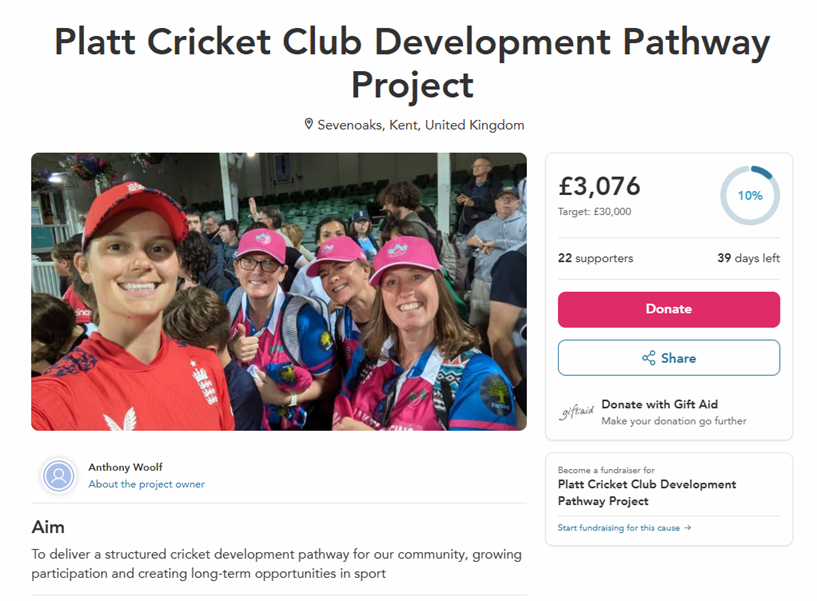
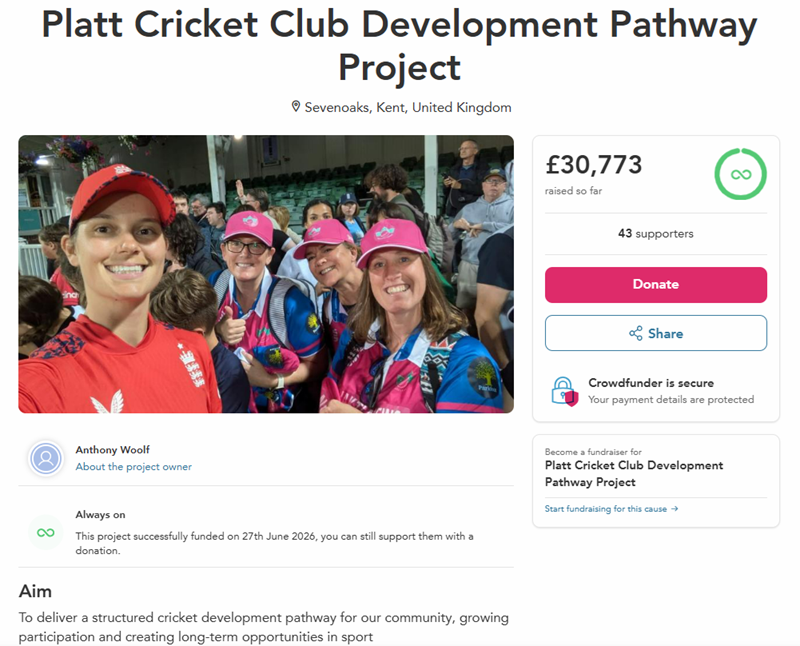
Updating sponsorship page

diff --git a/app/ladies/fundraising/page.tsx b/app/ladies/fundraising/page.tsx
@@ -77,9 +77,7 @@ export default async function FundraisingPage({
 
           <div className="fundraising-small-images-row">
             <div className="section-card fundraising-image-card">
-              <a href="/ladies/fundraising?it20=true">
-                <img src="/images/platt-ladies/IT20.jpg" alt="IT20 Competition" />
-              </a>
+              <img src="/images/platt-ladies/corporate-sponsor-deck.png" alt="Corporate Sponsorship Available" />
             </div>
 
             <div className="section-card fundraising-image-card">
